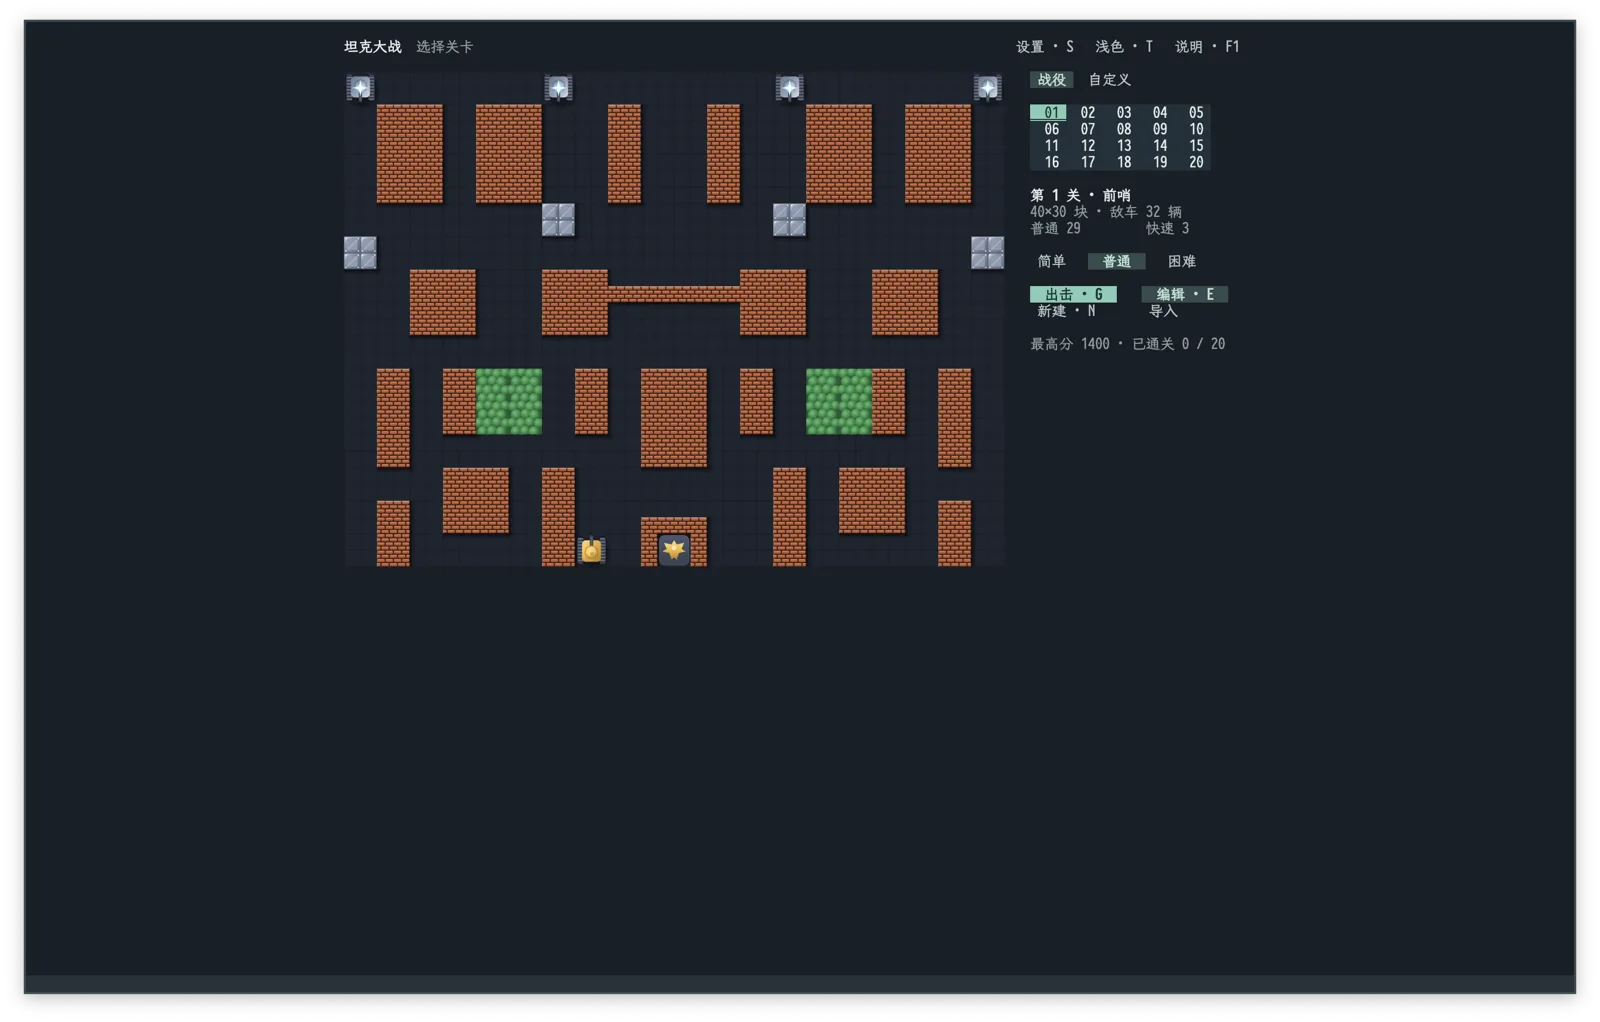
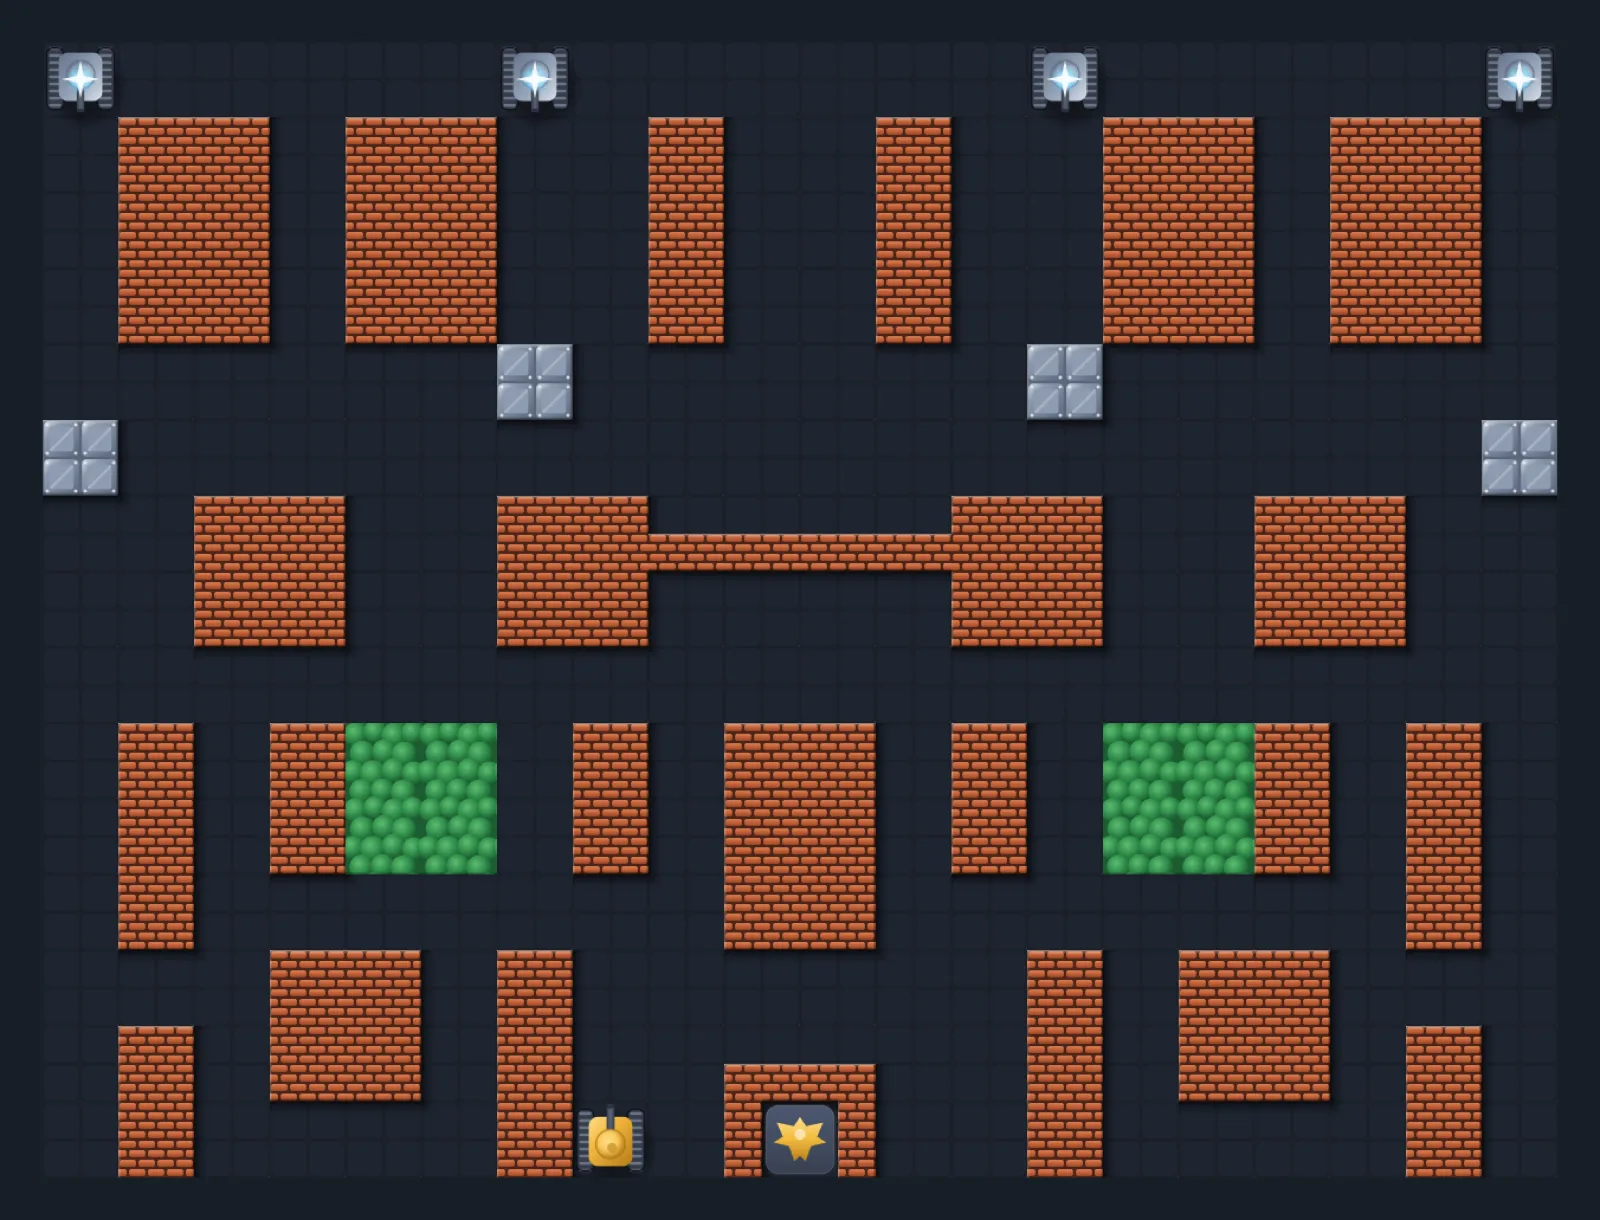
feat(site): redesign the landing around one grid and a screenshot lightbox
The landing carried a staggered feature grid that read as misalignment, a
single gallery with four pictures, images that could not be opened, and
desktop-only spacing.  It now uses one aligned feature grid, splits the
gallery into applications and games, captures the WeChat Reading shelf
from the real account and the Markdown view beside its source, crops the
game windows to their boards, and opens every picture full screen through
public/lightbox.js; the layout is checked at a phone viewport.

Validation: npm run build completes; the page was reviewed in the
controlled browser in wide, ordinary and 390x844 viewports, in both color
modes; all thirteen pictures load and the lightbox opens and closes.

diff --git a/site/src/styles/custom.css b/site/src/styles/custom.css
@@ -151,3 +151,96 @@ html[data-has-hero] .hero .tagline {
   font-size: var(--sl-text-sm);
   margin-top: 0.45rem;
 }
+
+/* Landing page: feature cards, screenshot links and the lightbox.
+
+   The feature cards replace Starlight's staggered CardGrid, whose offset
+   reads as misalignment; the cards below share one grid and one height. */
+.etaf-features {
+  display: grid;
+  gap: 1rem;
+  grid-template-columns: repeat(auto-fit, minmax(min(100%, 16rem), 1fr));
+  margin-block: 1.75rem 2.5rem;
+}
+
+.etaf-feature {
+  background: var(--sl-color-bg-nav);
+  border: 1px solid var(--sl-color-hairline);
+  border-radius: 0.85rem;
+  padding: 1.05rem 1.15rem;
+  transition: border-color 0.2s ease, transform 0.2s ease;
+}
+
+.etaf-feature:hover {
+  border-color: var(--sl-color-accent);
+  transform: translateY(-2px);
+}
+
+.etaf-feature h3 {
+  align-items: center;
+  display: flex;
+  font-size: var(--sl-text-base);
+  gap: 0.5rem;
+  margin: 0 0 0.45rem;
+}
+
+.etaf-feature-icon {
+  color: var(--sl-color-accent);
+  flex: none;
+}
+
+.etaf-feature p {
+  color: var(--sl-color-gray-3);
+  font-size: var(--sl-text-sm);
+  line-height: 1.6;
+  margin: 0;
+}
+
+.etaf-shot-link {
+  display: block;
+  border-radius: 0.4rem;
+}
+
+.etaf-lightbox {
+  align-items: center;
+  background: rgb(8 10 16 / 0.94);
+  cursor: zoom-out;
+  display: flex;
+  inset: 0;
+  justify-content: center;
+  padding: 2vmin;
+  position: fixed;
+  z-index: 9999;
+}
+
+.etaf-lightbox img {
+  border-radius: 0.5rem;
+  box-shadow: 0 30px 90px rgb(0 0 0 / 0.55);
+  height: auto;
+  max-height: 96vh;
+  max-width: 100%;
+  width: auto;
+}
+
+@media (max-width: 640px) {
+  html[data-has-hero] .hero {
+    padding-block: 1.25rem 0.5rem;
+  }
+
+  html[data-has-hero] .hero h1 {
+    font-size: 2.3rem;
+  }
+
+  .etaf-shots {
+    gap: 0.9rem;
+  }
+
+  .etaf-lightbox {
+    padding: 0;
+  }
+
+  .etaf-lightbox img {
+    border-radius: 0;
+    max-height: 100vh;
+  }
+}

diff --git a/site/public/lightbox.js b/site/public/lightbox.js
@@ -1,0 +1,33 @@
+// Open landing screenshots in a full-screen overlay; without JavaScript the
+// links still open the original WebP in the browser.
+(() => {
+  let overlay = null;
+  const close = () => {
+    if (!overlay) return;
+    overlay.remove();
+    overlay = null;
+    document.documentElement.style.removeProperty('overflow');
+  };
+  const open = (href, alt) => {
+    close();
+    overlay = document.createElement('div');
+    overlay.className = 'etaf-lightbox';
+    const image = document.createElement('img');
+    image.src = href;
+    image.alt = alt;
+    overlay.append(image);
+    overlay.addEventListener('click', close);
+    document.documentElement.style.overflow = 'hidden';
+    document.body.append(overlay);
+  };
+  document.addEventListener('keydown', (event) => {
+    if (event.key === 'Escape') close();
+  });
+  document.addEventListener('click', (event) => {
+    const link = event.target.closest('.etaf-shots a.etaf-shot-link');
+    if (!link) return;
+    event.preventDefault();
+    const image = link.querySelector('img');
+    open(link.getAttribute('href'), image ? image.alt : '');
+  });
+})();
